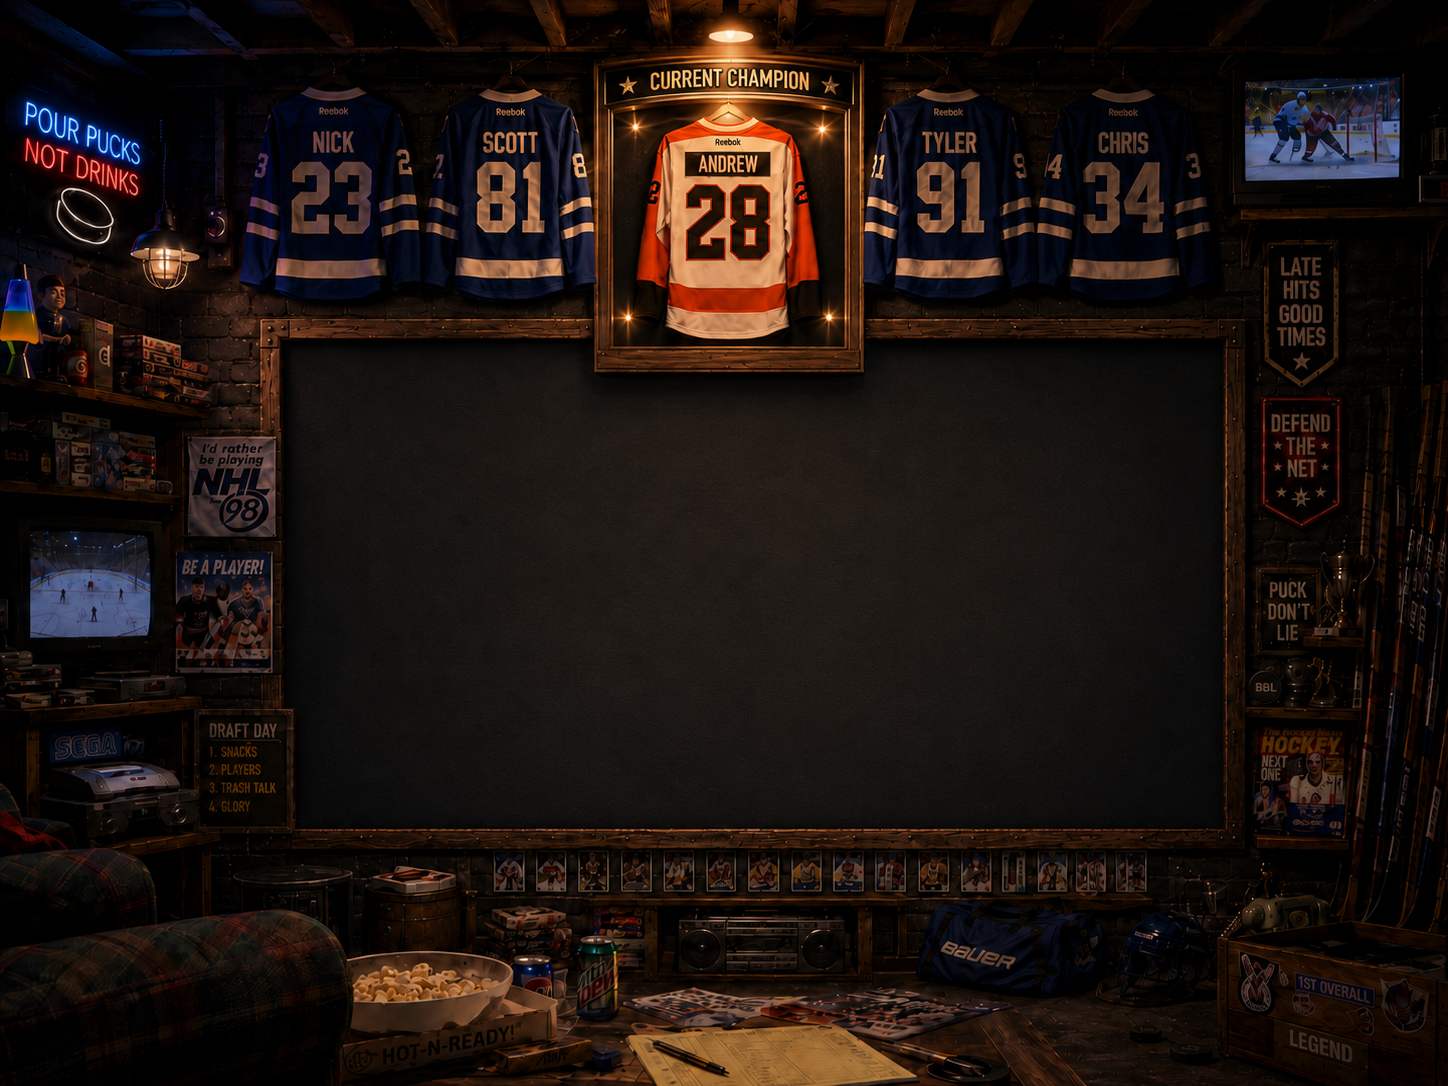
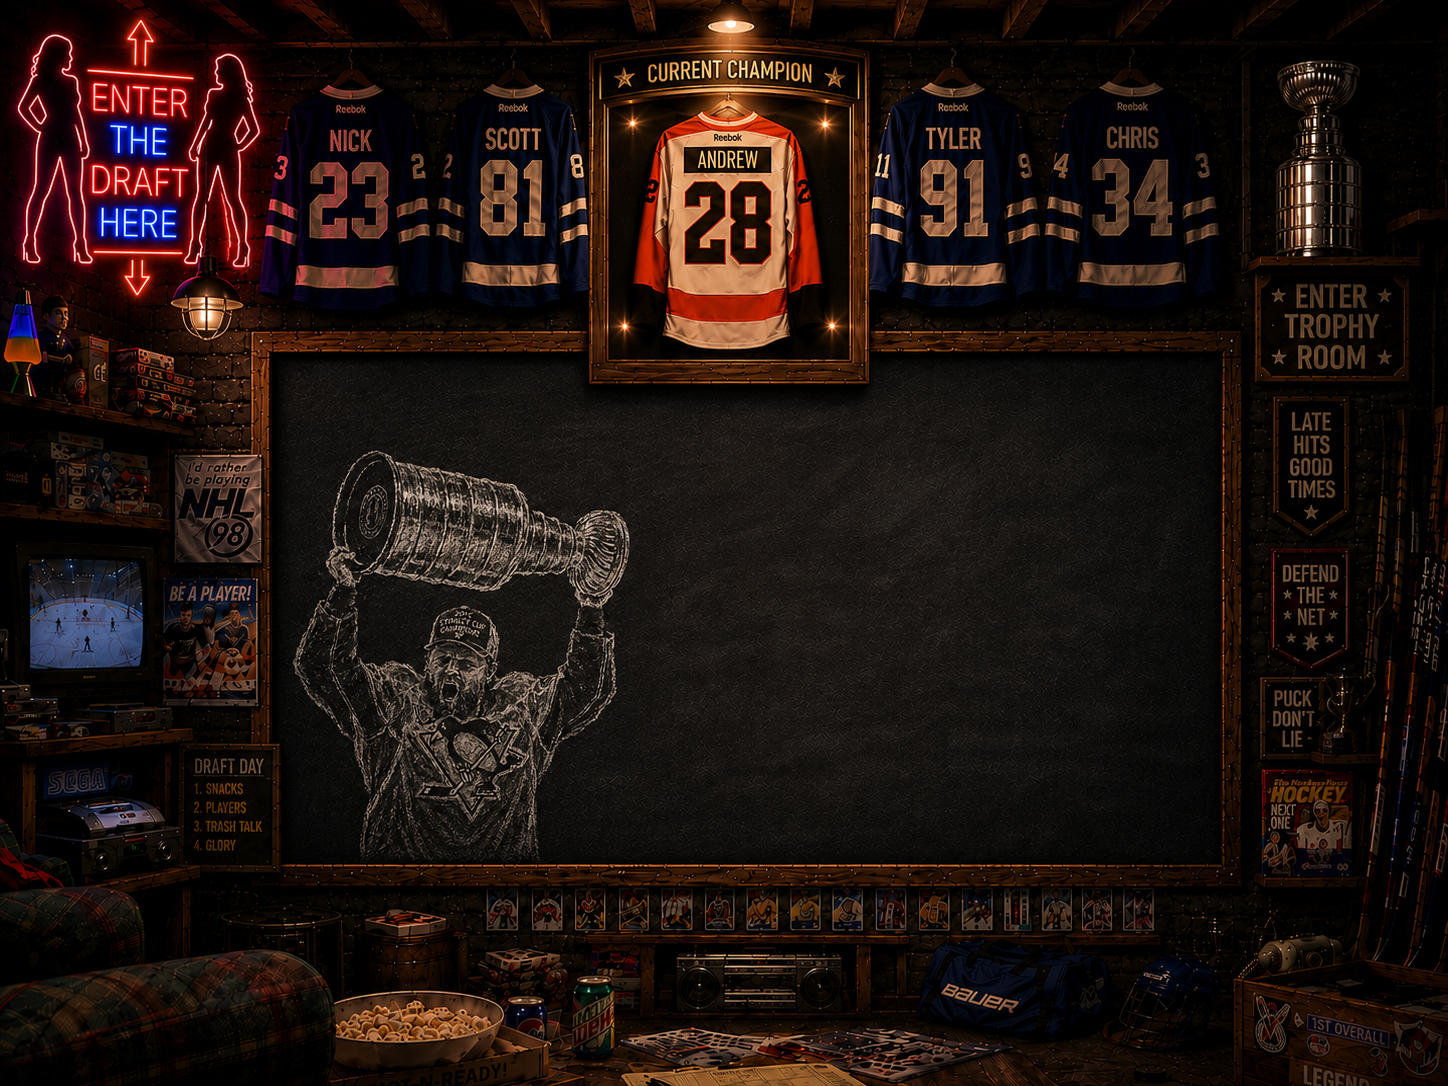
Add files via upload

diff --git a/index.html b/index.html
@@ -929,7 +929,7 @@
      Uses live API data from v156 diagnostics; only the Kessel chalk drawing is image-based. */
 
   #dashboard .home-immersive-image {
-    content: url('assets/images/home-leaderboard-basement-board.png?v=184') !important;
+    content: url('assets/images/home-leaderboard-basement-board.png?v=206') !important;
   }
 
   #leaderboardTable.home-chalk-leaderboard-overlay {
@@ -2120,157 +2120,60 @@
 
 
 
-<style id="v204-enter-draft-room-neon-link">
-  /* v204: Replace the baked-in top-left neon phrase visually with an animated clickable Draft Room sign.
-     The original background stays intact underneath; this live overlay gives us flashing neon and a real link. */
-  #dashboard .home-draft-neon-link {
+<style id="v206-baked-background-hotspots-and-clean-home-links">
+  /* v206: baked final background with image-map style links and no bottom Draft/Trophy pills. */
+  #dashboard .home-immersive-image {
+    content: url('assets/images/home-leaderboard-basement-board.png?v=206') !important;
+  }
+
+  #dashboard .home-image-hotspots {
     position: absolute !important;
-    left: 1.05% !important;
-    top: 8.15% !important;
-    width: 12.35% !important;
-    height: 13.8% !important;
-    z-index: 6 !important;
-    display: grid !important;
-    grid-template-columns: 1fr auto 1fr !important;
-    align-items: center !important;
-    justify-items: center !important;
-    gap: 2.5% !important;
-    padding: .55% .65% !important;
-    border: 1px solid rgba(112, 214, 255, .42) !important;
-    border-radius: 12% !important;
-    background:
-      radial-gradient(circle at 50% 48%, rgba(12, 28, 46, .96) 0%, rgba(3, 6, 12, .96) 66%, rgba(0,0,0,.98) 100%) !important;
-    box-shadow:
-      inset 0 0 18px rgba(0, 0, 0, .92),
-      inset 0 0 4px rgba(255,255,255,.18),
-      0 0 10px rgba(53, 183, 255, .42),
-      0 0 22px rgba(255, 46, 122, .24) !important;
+    inset: 0 !important;
+    z-index: 8 !important;
+    pointer-events: none !important;
+  }
+
+  #dashboard .home-image-hotspot {
+    position: absolute !important;
+    appearance: none !important;
+    border: 0 !important;
+    background: transparent !important;
+    padding: 0 !important;
+    margin: 0 !important;
     cursor: pointer !important;
     pointer-events: auto !important;
-    transform: rotate(6.8deg) !important;
-    overflow: hidden !important;
-    appearance: none !important;
-    -webkit-tap-highlight-color: transparent !important;
-    animation: v204-neon-box-flicker 2.75s infinite steps(1, end) !important;
+    -webkit-tap-highlight-color: rgba(255,255,255,.16) !important;
   }
 
-  #dashboard .home-draft-neon-link::before {
-    content: "" !important;
-    position: absolute !important;
-    inset: -10% !important;
-    background:
-      linear-gradient(110deg, transparent 0 38%, rgba(255,255,255,.14) 43%, transparent 49% 100%),
-      repeating-linear-gradient(0deg, rgba(255,255,255,.028) 0 1px, transparent 1px 4px) !important;
-    opacity: .65 !important;
-    pointer-events: none !important;
-    mix-blend-mode: screen !important;
+  #dashboard .home-image-hotspot:focus-visible {
+    outline: 2px solid rgba(255,255,255,.78) !important;
+    outline-offset: 3px !important;
+    border-radius: 14px !important;
   }
 
-  #dashboard .home-draft-neon-text {
-    position: relative !important;
-    z-index: 1 !important;
-    display: flex !important;
-    flex-direction: column !important;
-    align-items: center !important;
-    justify-content: center !important;
-    gap: .10em !important;
-    color: #f8fbff !important;
-    font-family: Impact, "Arial Black", "Trebuchet MS", sans-serif !important;
-    font-size: clamp(9px, 1.55vw, 23px) !important;
-    line-height: .82 !important;
-    font-weight: 950 !important;
-    letter-spacing: .045em !important;
-    text-transform: uppercase !important;
-    text-align: center !important;
-    text-shadow:
-      0 0 2px #fff,
-      0 0 6px rgba(104, 215, 255, .98),
-      0 0 13px rgba(63, 174, 255, .86),
-      0 0 24px rgba(255, 44, 126, .60) !important;
-    animation: v204-neon-text-flicker 1.95s infinite steps(1, end) !important;
+  /* Coordinates are percentages of the 1448x1086 baked background. */
+  #dashboard .home-image-hotspot-draft {
+    left: 0.0% !important;
+    top: 1.0% !important;
+    width: 18.2% !important;
+    height: 25.6% !important;
   }
 
-  #dashboard .home-draft-neon-text span:last-child {
-    color: #ffeff7 !important;
-    text-shadow:
-      0 0 2px #fff,
-      0 0 6px rgba(255, 84, 165, .98),
-      0 0 15px rgba(255, 35, 125, .90),
-      0 0 28px rgba(50, 190, 255, .50) !important;
+  #dashboard .home-image-hotspot-trophy {
+    right: 3.7% !important;
+    top: 2.1% !important;
+    width: 12.8% !important;
+    height: 30.3% !important;
   }
 
-  #dashboard .home-draft-neon-arrow {
-    position: relative !important;
-    z-index: 1 !important;
-    color: #fff7bc !important;
-    font-family: Impact, "Arial Black", sans-serif !important;
-    font-size: clamp(9px, 1.35vw, 20px) !important;
-    line-height: 1 !important;
-    text-shadow:
-      0 0 2px #fff,
-      0 0 7px rgba(255, 228, 73, .98),
-      0 0 16px rgba(255, 151, 34, .88),
-      0 0 30px rgba(255, 37, 111, .50) !important;
-    animation: v204-neon-arrow-pulse .86s infinite alternate ease-in-out !important;
+  #dashboard .home-image-nav {
+    z-index: 9 !important;
   }
 
-  #dashboard .home-draft-neon-arrow-left {
-    transform: rotate(-12deg) translateX(-2%) !important;
-  }
-
-  #dashboard .home-draft-neon-arrow-right {
-    transform: rotate(12deg) translateX(2%) !important;
-  }
-
-  #dashboard .home-draft-neon-link:hover,
-  #dashboard .home-draft-neon-link:focus-visible {
-    outline: none !important;
-    border-color: rgba(255, 237, 124, .92) !important;
-    box-shadow:
-      inset 0 0 20px rgba(0,0,0,.88),
-      0 0 14px rgba(255, 237, 124, .74),
-      0 0 32px rgba(255, 45, 125, .52),
-      0 0 50px rgba(56, 182, 255, .42) !important;
-  }
-
-  @keyframes v204-neon-text-flicker {
-    0%, 8%, 12%, 19%, 23%, 100% { opacity: 1; filter: brightness(1.16); }
-    9%, 20% { opacity: .55; filter: brightness(.74); }
-    10%, 21% { opacity: .95; filter: brightness(1.05); }
-    45% { opacity: .84; filter: brightness(.92); }
-  }
-
-  @keyframes v204-neon-box-flicker {
-    0%, 100% { filter: brightness(1); }
-    11% { filter: brightness(1.22); }
-    12% { filter: brightness(.82); }
-    13% { filter: brightness(1.08); }
-    68% { filter: brightness(1.18); }
-    69% { filter: brightness(.88); }
-  }
-
-  @keyframes v204-neon-arrow-pulse {
-    from { opacity: .62; filter: brightness(.95); }
-    to { opacity: 1; filter: brightness(1.45); }
-  }
-
-  @media (max-width: 820px) {
-    #dashboard .home-draft-neon-link {
-      left: .9% !important;
-      top: 8.05% !important;
-      width: 13.1% !important;
-      height: 14.2% !important;
-      border-radius: 10% !important;
-      transform: rotate(6.2deg) !important;
-    }
-    #dashboard .home-draft-neon-text {
-      font-size: clamp(7px, 1.95vw, 16px) !important;
-      line-height: .84 !important;
-      letter-spacing: .03em !important;
-    }
-    #dashboard .home-draft-neon-arrow {
-      font-size: clamp(7px, 1.7vw, 14px) !important;
-    }
+  /* The new background already includes the Kessel chalk portrait; hide the extra overlay version. */
+  #leaderboardTable.home-chalk-leaderboard-overlay .v182-standings::after {
+    display: none !important;
+    content: none !important;
   }
 </style>
 
@@ -2313,15 +2216,12 @@
   <main class="shell">
     <section id="dashboard" class="panel active home-panel home-immersive-reset">
       <article class="home-immersive-scene" aria-label="Basement Bar League homepage scene">
-        <img class="home-immersive-image" src="assets/images/home-leaderboard-basement-board.png?v=184" alt="Basement Bar League current champion chalkboard homepage scene">
-        <button class="home-draft-neon-link" type="button" data-tab="draft" aria-label="Enter Draft Room">
-          <span class="home-draft-neon-arrow home-draft-neon-arrow-left" aria-hidden="true">➜</span>
-          <span class="home-draft-neon-text"><span>Enter</span><span>Draft Room</span></span>
-          <span class="home-draft-neon-arrow home-draft-neon-arrow-right" aria-hidden="true">⬅</span>
-        </button>
+        <img class="home-immersive-image" src="assets/images/home-leaderboard-basement-board.png?v=206" alt="Basement Bar League current champion chalkboard homepage scene">
+        <div class="home-image-hotspots" aria-label="Homepage image links">
+          <button class="home-image-hotspot home-image-hotspot-draft" type="button" data-tab="draft" aria-label="Enter the Draft Room"></button>
+          <button class="home-image-hotspot home-image-hotspot-trophy" type="button" data-tab="rosters" aria-label="Enter the Trophy Room"></button>
+        </div>
         <nav class="home-image-nav" aria-label="Homepage navigation">
-          <button class="home-image-link" type="button" data-tab="draft">Draft Room</button>
-          <button class="home-image-link" type="button" data-tab="rosters">Trophy Room</button>
           <button class="home-image-link" type="button" data-tab="previousSeason">Previous Season</button>
           <button class="home-image-link" type="button" data-tab="teams">Teams</button>
           <button class="home-image-link" type="button" data-tab="rules">Rules</button>
